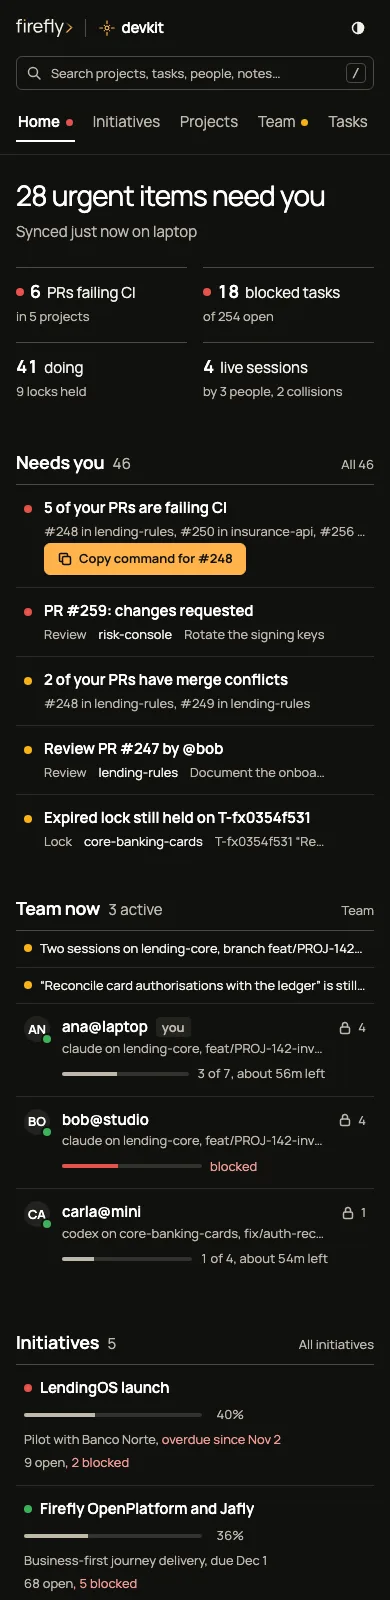
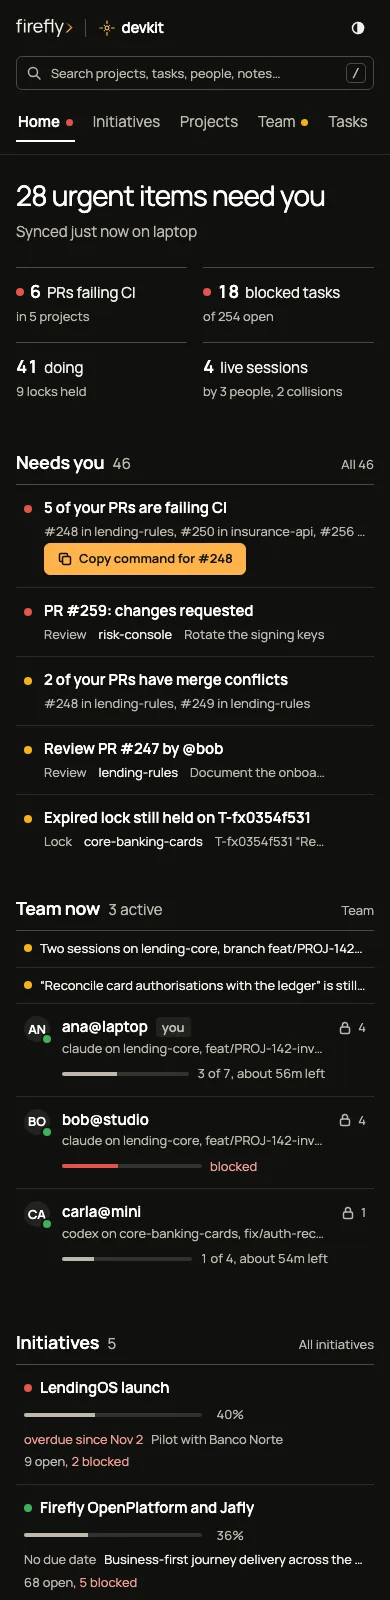
fix(dashboard): long real-world texts fit — initiatives table, home rows, navbar
Fixed table layout with a flexible name column; the next date is the due
date with the milestone as one truncated line (full text on hover); home
initiative rows stay on one line; the navbar fits at 1100 px; long
completed-task titles and roadmap labels truncate; header and cells hide
together. Tested with long milestones, 77-member initiatives without due
dates and empty people at 1100, 1280 and 1440 px.

Changed region(s): [[0.0615, 0.875, 0.7077, 1.0], [0.8, 0.9688, 0.8308, 1.0]]

diff --git a/lib/devkit/dashboard.py b/lib/devkit/dashboard.py
@@ -1135,7 +1135,13 @@ a.fig:hover .fl{text-decoration:underline;text-underline-offset:3px;text-decorat
 .warnline{display:flex;gap:var(--s2);align-items:baseline;font-size:var(--fs-1);color:var(--text);padding:var(--s2) var(--s2);border-bottom:1px solid var(--line-soft);min-width:0}
 .warnline .dot{transform:translateY(-1px)}
 /* initiative rows (Home) */
-.inir{display:grid;grid-template-columns:minmax(0,1.5fr) minmax(120px,1fr) minmax(0,1fr) minmax(0,1fr);gap:var(--s1) var(--s4);align-items:center;padding:var(--s3) var(--s2)}
+.inir{display:grid;grid-template-columns:minmax(0,1.4fr) minmax(140px,.9fr) minmax(0,1.4fr) minmax(110px,.6fr);gap:var(--s1) var(--s5);align-items:center;padding:var(--s3) var(--s2)}
+.inir>*{min-width:0} .inir .nm .rl{min-width:0} .inir .c4{white-space:nowrap;overflow:hidden;text-overflow:ellipsis}
+/* the next date: due date first, the milestone as one truncated line (two lines in tables, one line in Home rows) */
+.nd{display:grid;grid-template-columns:minmax(0,1fr);font-size:var(--fs-1);line-height:1.45;min-width:0}
+.nd .due{color:var(--text)} .nd .due.over{color:var(--bad-text)} .nd .due.none{color:var(--text-2)} .nd .ms{color:var(--text-2)} .nd .due.none+.ms{color:var(--text)}
+.inir .nd{display:flex;align-items:baseline;gap:var(--s2)} .inir .nd .due{flex:none} .inir .nd .ms{flex:0 1 auto}
+.since .sl1>.lnk,.since .sl1>.ell:first-child{flex:0 1 auto;min-width:0} .since .sl1>.sc2{flex:0 0 auto;max-width:45%}
 .inir .nm{display:flex;align-items:center;gap:var(--s2);font-weight:600;color:var(--strong);min-width:0}
 .inir .sub{font-size:var(--fs-1);color:var(--text-2)}
 /* ---------- tables: quiet */
@@ -1154,6 +1160,9 @@ table.pt td{white-space:nowrap}
 table.pt td.c-name{max-width:220px} table.pt .pname,table.pt .powner{overflow:hidden;text-overflow:ellipsis;white-space:nowrap}
 td.c-now{max-width:200px;white-space:normal} td.c-status{max-width:230px;white-space:normal}
 td.c-prog{width:170px} table.pt .prog{min-width:100px}
+table.it{table-layout:fixed} table.it td{overflow:hidden;text-overflow:ellipsis} table.it td.c-name{max-width:none}
+table.it th.c-health{width:28px} table.it th.c-prog{width:150px} table.it th.c-ms{width:190px} table.it th.c-work{width:164px}
+table.it th.c-st{width:140px} table.it th.c-who{width:112px} table.it th.c-act{width:104px} table.it .prog{min-width:0;max-width:none}
 td.c-who{width:100px} td.c-cta{width:120px;text-align:right}
 table.pt .prs{flex-wrap:nowrap}
 .slt{font-size:var(--fs-1);line-height:1.4;color:var(--text)}
@@ -1173,6 +1182,7 @@ table.pt .prs{flex-wrap:nowrap}
 .phead .go{display:flex;flex-wrap:wrap;gap:var(--s2);align-items:center;justify-content:flex-end}
 .pline{font-size:var(--fs-2);color:var(--text-2)}
 .pline .stat{color:var(--text)}
+.pline .msl{display:inline-block;max-width:52ch;overflow:hidden;text-overflow:ellipsis;white-space:nowrap;vertical-align:bottom}
 .lead{margin:0;max-width:70ch;color:var(--text);font-size:var(--fs-2)}
 .lead p{margin:0}
 .pprog{display:flex;align-items:center;gap:var(--s3);max-width:520px;font-size:var(--fs-1);color:var(--text-2)}
@@ -1373,7 +1383,7 @@ table.pt .prs{flex-wrap:nowrap}
 .road-tl.today{color:var(--strong);font-weight:600}
 .road-m{position:absolute;top:50%;width:9px;height:9px;margin:-5px 0 0 -5px;transform:rotate(45deg);background:var(--mark);border-radius:1px;z-index:2}
 .road-m.over{background:var(--bad)} .road-m.done{background:var(--good)}
-.road-t{position:absolute;top:50%;transform:translate(10px,-50%);font-size:var(--fs-1);color:var(--text-2);white-space:nowrap;z-index:2;background:var(--page);padding:0 4px}
+.road-t{position:absolute;top:50%;transform:translate(10px,-50%);font-size:var(--fs-1);color:var(--text-2);white-space:nowrap;overflow:hidden;text-overflow:ellipsis;z-index:2;background:var(--page);padding:0 4px}
 .road-t.r{transform:translate(-10px,-50%)}
 /* ---------- timeline */
 .tl{list-style:none;margin:0;padding:0}
@@ -1447,9 +1457,10 @@ a.rl,a.at,a.itl{color:inherit;text-decoration:none} a.rl:hover,a.at:hover,a.itl:
   main .tw.st:not(.x) table.t th{top:var(--nav-h)} main .tabpanel .tw.st:not(.x) table.t th{top:calc(var(--nav-h) + var(--tabs-h))}}
 /* ---------- responsive */
 @media (max-width:1600px){table.pt:not(.it) .c-act{display:none}}
-@media (max-width:1180px){.board{grid-template-columns:repeat(2,minmax(0,1fr))}.c-size,.c-act{display:none}td.c-who{display:none}
+@media (max-width:1180px){.nav{gap:var(--s4)}.tabs{gap:var(--s3)}.search{flex-basis:170px}#palbtn{display:none}
+  .board{grid-template-columns:repeat(2,minmax(0,1fr))}.c-size,.c-act{display:none}.c-who{display:none}
   .since{grid-template-columns:repeat(2,minmax(0,1fr))}.people{grid-template-columns:minmax(0,1fr)}}
-@media (max-width:1024px){.cols,.cols.even{grid-template-columns:minmax(0,1fr)}.search{flex-basis:200px}.c-last{display:none}
+@media (max-width:1024px){.cols,.cols.even{grid-template-columns:minmax(0,1fr)}.search{flex-basis:150px}.c-last{display:none}
   .inir{grid-template-columns:minmax(0,1fr) minmax(120px,200px)}.inir .c3,.inir .c4{grid-column:1/-1}}
 @media (pointer:coarse){.icopy{width:40px;height:40px}.btn{height:40px}.btn.sm{height:36px}}
 @media (max-width:768px){
@@ -2225,9 +2236,10 @@ function teamNow() {
 function notCloned(x) { return x.members.filter(m => { const p = BYID.get(m.id); return p ? !p.local : !m.local; }).length; }
 function memberCounts(x) { const c = {blocked: 0, risk: 0}; for (const m of x.members) { const p = BYID.get(m.id), st = (p && p.status) || m.status; if (st === "blocked") c.blocked++; if (p && p.health.level === "risk") c.risk++; } return c; }
 function nextDate(x) {
-  const over = x.due && x.status !== "done" && x.due < lkey(new Date());
-  if (!x.due && !x.milestone) return h("span", {class: "t2", text: "No due date"});
-  return h("span", null, x.milestone ? h("span", {text: x.milestone + (x.due ? ", " : "")}) : null, x.due ? h("span", {class: over ? "bad" : "t2", text: over ? "overdue since " + shortDay(x.due) : "due " + shortDay(x.due)}) : null);
+  const over = !!(x.due && x.status !== "done" && x.due < lkey(new Date()));
+  const when = x.due ? (over ? "overdue since " : "due ") + shortDay(x.due) : "No due date";
+  return h("div", {class: "nd", title: [x.milestone ? "Milestone: " + x.milestone : "", x.due ? (over ? "Overdue since " : "Due ") + x.due : ""].filter(Boolean).join(". ") || null},
+    h("span", {class: "due" + (over ? " over" : "") + (x.due ? "" : " none"), text: when}), x.milestone ? h("span", {class: "ms ell", text: x.milestone}) : null);
 }
 function workText(c) { return h("span", null, h("span", {class: "num", text: c.open + " open"}), c.blocked ? h("span", {class: "bad num", text: ", " + c.blocked + " blocked"}) : null); }
 /* Home: one row per initiative (status, progress, next date, open and blocked work) */
@@ -2251,8 +2263,8 @@ function sincePanel() {
   const body = h("div", {class: "since"},
     col("Sessions", s.sessions || [], x => h("li", {title: [x.who, x.agent].filter(Boolean).join(" with ")}, h("div", {class: "sl1"}, h("span", {class: "k num", text: tm(x.ts)}), h("button", {class: "lnk", type: "button", onclick: () => x.project && openScope(x.project), text: scopeName(x.project || "") || "—"})), h("div", {class: "ell", title: plain(stripMarker(x.text))}, logText(x))), "No agent sessions since yesterday."),
     col("Commits", s.commits || [], ([pid, n]) => h("li", {style: "display:flex;gap:8px"}, h("button", {class: "lnk ell", style: "flex:1;text-align:left;font-weight:400", type: "button", onclick: () => openProject(pid), text: scopeName(pid)}), h("span", {class: "num k", text: String(n)})), "No commits since yesterday."),
-    col("Merged PRs", s.merged || [], x => h("li", {class: "ell"}, h("a", {href: x.url, target: "_blank", rel: "noopener noreferrer", text: "#" + x.number}), " ", x.title, h("span", {class: "k", text: " in " + x.repo.split("/").pop()})), "Nothing merged since yesterday."),
-    col("Completed tasks", s.done || [], x => h("li", {class: "ell"}, x.id && ITEMBY.has(x.id) ? h("button", {class: "lnk", style: "font-weight:400", type: "button", onclick: () => openTask(x.id), text: x.text}) : inline(x.text), h("span", {class: "k", text: " in " + scopeName(x.project)})), "No tasks completed since yesterday.", link({view: "tasks", tst: "done"})));
+    col("Merged PRs", s.merged || [], x => h("li", {class: "ell", title: "#" + x.number + " " + x.title}, h("a", {href: x.url, target: "_blank", rel: "noopener noreferrer", text: "#" + x.number}), " ", x.title, h("span", {class: "k", text: " in " + x.repo.split("/").pop()})), "Nothing merged since yesterday."),
+    col("Completed tasks", s.done || [], x => h("li", {class: "sl1", title: x.text + " in " + scopeName(x.project)}, x.id && ITEMBY.has(x.id) ? h("button", {class: "lnk", style: "font-weight:400", type: "button", onclick: () => openTask(x.id), text: x.text}) : h("span", {class: "ell"}, inline(x.text)), h("span", {class: "k ell sc2", text: "in " + scopeName(x.project)})), "No tasks completed since yesterday.", link({view: "tasks", tst: "done"})));
   return panel("Since yesterday", null, h("span", {class: "t2", text: "from " + fmtDay(s.from)}), body);
 }
 function viewHome(main) {
@@ -2290,7 +2302,8 @@ function roadmap(items) {
     rows.push(h("div", {class: "road-row", "data-nav": "", tabindex: "0", role: "link", "aria-label": x.label + ", due " + x.due, onclick: x.open, onkeydown: e => { if (e.key === "Enter") x.open(); }},
       h("span", {class: "road-l ell", title: x.label}, h("span", {class: "dot " + (SDOT[x.status] || "d-info"), "aria-hidden": "true"}), x.label),
       track([h("span", {class: "road-m" + (over ? " over" : x.status === "done" ? " done" : ""), style: "left:" + p.toFixed(2) + "%", title: (over ? "Overdue · " : "Due ") + x.due + (x.milestone ? " · " + x.milestone : "")}),
-        h("span", {class: "road-t" + (right ? " r" : ""), style: (right ? "right:" + (100 - p).toFixed(2) : "left:" + p.toFixed(2)) + "%", text: shortDay(x.due) + (x.milestone ? ": " + x.milestone : "") + (over ? " (overdue)" : "")})])));
+        h("span", {class: "road-t" + (right ? " r" : ""), title: x.label + ", " + shortDay(x.due) + (x.milestone ? ": " + x.milestone : "") + (over ? " (overdue)" : ""),
+          style: (right ? "right:" + (100 - p).toFixed(2) : "left:" + p.toFixed(2)) + "%;max-width:calc(" + (right ? p : 100 - p).toFixed(2) + "% - 14px)", text: shortDay(x.due) + (x.milestone ? ": " + x.milestone : "") + (over ? " (overdue)" : "")})])));
   }
   return h("div", {class: "road", role: "list", "aria-label": "Milestones and due dates"}, rows);
 }
@@ -2341,7 +2354,7 @@ function viewInitiative(main) {
       h("div", {class: "go"}, x.note && FILEMAP.has(x.note) ? h("a", {class: "btn ghost", href: link({view: "explorer", f: x.note, id: ""})}, "README") : null,
         cmdMenu("Commands", [["Show it in the terminal", "dev initiative show " + x.id], ["Add a task", "dev task -i " + x.id + ' add "…" --now'], ["Add a member project", "dev initiative add " + x.id + " <owner/repo>"]]))),
     h("div", {class: "pline"}, meta(statusBadge(x.status), x.priority === "high" ? "High priority" : x.priority === "low" ? "Low priority" : null,
-      x.milestone ? "Milestone: " + x.milestone : null, x.due ? h("span", {class: over ? "bad" : null, text: over ? "overdue since " + shortDay(x.due) : "due " + shortDay(x.due)}) : null,
+      x.milestone ? h("span", {class: "msl", title: "Milestone: " + x.milestone, text: "Milestone: " + x.milestone}) : null, x.due ? h("span", {class: over ? "bad" : null, text: over ? "overdue since " + shortDay(x.due) : "due " + shortDay(x.due)}) : null,
       x.owner ? "owner " + x.owner : null, x.last ? "active " + rel(x.last) : null)),
     state ? h("p", {class: "lead", title: longState ? state : null}, inline(longState ? state.slice(0, 240).replace(/\s+\S*$/, "") + "…" : state)) : null,
     h("div", {class: "pprog"}, progressBar(x, true), h("span", {text: pr.why}))));
@@ -2632,7 +2645,7 @@ function viewProject(main) {
     h("div", {class: "pt1"}, h("div", null, h("h1", null, healthDot(p), p.name || p.id)),
       h("div", {class: "go"}, p.local ? cmdBtn("dev claude " + p.id, true, "Copy dev claude") : cmdBtn("dev clone " + p.id, true, "Copy dev clone"),
         cmdMenu("More commands", p.local ? [["Start Codex", "dev codex " + p.id], ["Go to the checkout", "dcd " + p.id], ["Write the handoff", "dev handoff " + p.id]] : [["Write the handoff", "dev handoff " + p.id]]))),
-    h("div", {class: "pline"}, meta(statusBadge(p.status, true), p.priority === "high" ? "High priority" : null, ns.milestone ? "Milestone: " + ns.milestone : null, ns.due ? dueBadge(ns.due, p.status === "done") : null,
+    h("div", {class: "pline"}, meta(statusBadge(p.status, true), p.priority === "high" ? "High priority" : null, ns.milestone ? h("span", {class: "msl", title: "Milestone: " + ns.milestone, text: "Milestone: " + ns.milestone}) : null, ns.due ? dueBadge(ns.due, p.status === "done") : null,
       p.inits.length ? h("span", null, "in ", p.inits.map((id, i) => [i ? ", " : "", h("a", {href: link({view: "initiatives", id, tab: ""}), text: (BYINIT.get(id) || {}).title || id})])) : null,
       m.branch ? h("span", {class: "meta", title: "Current branch"}, icon("branch"), m.branch) : null, lastSeen ? "active " + rel(lastSeen) : null, p.local ? null : "not cloned on this Mac")),
     lv !== "ok" ? h("div", {class: "hreason"}, h("span", {class: "dot d-" + lv, "aria-hidden": "true"}), h("span", null, h("span", {class: lv === "risk" ? "bad" : "warn-t", text: hl + ": "}), p.health.reasons.join(", "))) : null,

diff --git a/tests/test_dashboard.py b/tests/test_dashboard.py
@@ -23,6 +23,8 @@ FUTURE = time.strftime("%Y-%m-%d", time.localtime(NOW + 20 * 86400))
 ISO = time.strftime("%Y-%m-%dT%H:%M:%SZ", time.gmtime(NOW - 3600))
 MARK = "[Firefly> DevKit]"           # the status-line marker agents write
 FAKE_PAT = "ghp_" + "0123456789abcdefABCDEF0123456789abcd"   # built at runtime: no token-shaped literal in the file
+LONG_MILESTONE = "Business-first journey delivery across the experience, domain and core layers (plan of 2026-10-31, revised after review)"
+LONG_GOAL = "Deliver working banking and insurance operations through Experience, Domain and Core services, with verified artefacts and consumer adoption."
 LEGACY = "DevKit ·"                  # the legacy marker, still accepted
 SAVED = "widget · main ❯ Ship export ❯ export endpoint done ❯ ✓ 31 tests green ❯ ▸ 3/7 ❯ next → contract test"   # what devkit saves
 ME = f"me@{socket.gethostname().split('.')[0].lower()}"
@@ -244,6 +246,20 @@ class RenderTests(unittest.TestCase):
         self.assertIn("--elev-border:0 solid transparent", dashboard.LIGHT)
         self.assertIn("--shadow:none", dashboard.DARK)
 
+    def test_long_texts_do_not_widen_the_page(self):
+        """Real milestones and goals are long: the initiatives table has a fixed layout (the name takes the flexible
+        width), the next date is the due date with the milestone as one truncated line and the full text on hover."""
+        css, js = dashboard.CSS, dashboard.JS
+        self.assertIn("table.it{table-layout:fixed}", css)
+        for col in ("c-health", "c-prog", "c-ms", "c-work", "c-st", "c-who", "c-act"):
+            self.assertRegex(css, r"table\.it th\." + col + r"\{width:\d+px\}", col)    # every column but the name is fixed
+        self.assertNotRegex(css, r"table\.it th\.c-name\{width")
+        self.assertIn('h("span", {class: "ms ell", text: x.milestone})', js)             # one truncated line
+        self.assertIn('"Milestone: " + x.milestone', js)                                 # the full text on hover
+        self.assertIn('"No due date"', js)
+        self.assertIn(".inir .nd{display:flex", css)                                     # Home: one line per initiative
+        self.assertIn(".c-who{display:none}", css)                                       # a hidden column hides its header too
+
     def test_rows_are_links(self):
         """Clickable rows hold a real link (keyboard, screen readers, j/k) instead of being focusable themselves."""
         js = dashboard.JS
@@ -305,12 +321,15 @@ class RenderTests(unittest.TestCase):
                 pid = members[n % 77] if n < 330 else f"acme/p{n % 13}"
                 item(root, pid, f"T-s{n:03d}", f"Task {n}", ["todo", "doing", "blocked", "done"][n % 4], ["now", "next", "later"][n % 3],
                      links=["initiative:jafly"] if n % 5 == 0 and n < 330 else [])
-            ini = {"id": "jafly", "title": "Jafly", "projects": members, "members": [{"id": m, "status": "active", "local": False} for m in members]}
+            ini = {"id": "jafly", "title": "Jafly", "projects": members, "members": [{"id": m, "status": "active", "local": False} for m in members],
+                   "milestone": LONG_MILESTONE, "goal": LONG_GOAL, "due": ""}           # no due date, long texts, nobody on it
             reg = {"projects": projects, "initiatives": [ini] + [{"id": f"i{k}", "title": f"I{k}", "projects": []} for k in range(4)], "github_user": "me"}
             html = dashboard.render(reg, handoff=root, now=NOW)
             d = embedded(html)
         self.assertEqual((len(d["projects"]), len(d["initiatives"]), len(d["items"])), (90, 5, 400))
         self.assertEqual(len(d["initiatives"][0]["linked_items"]), 66)
+        self.assertEqual((d["initiatives"][0]["milestone"], d["initiatives"][0]["goal"], d["initiatives"][0]["due"]), (LONG_MILESTONE, LONG_GOAL, ""))
+        self.assertEqual(d["people"], [])
         self.assertEqual(d["kpis"]["not_cloned"], 77)
         self.assertEqual(d["kpis"]["prs_failing"], 13)
         self.assertLess(len(html), 3_000_000)

diff --git a/docs/dashboard.md b/docs/dashboard.md
@@ -21,7 +21,7 @@ dev dashboard --path     # print the file path
 | View | Keys | The job it does |
 | --- | --- | --- |
 | **Home** | `g o` | _Is anything wrong, and where do things stand?_ The title answers it, for example _28 urgent items need you_ or _Nothing needs you_. **Four figures** follow, each with its context and a link to the filtered list (PRs failing CI, blocked tasks, doing and the locks held, live sessions with people and collisions). **Needs you** lists the top five problems; problems of the same kind are grouped into one row (for example _5 of your PRs are failing CI_) that opens the filtered list. The first row has the page's one amber button, which copies its command; other rows have a copy icon. **Team now** has one row per person with their live session, run progress and ETA, after a one-line warning for each collision. Below sit one row per **initiative** (status, progress, next date, open and blocked tasks) and **Since yesterday** (sessions, commits, merged PRs, completed tasks). |
-| **Initiatives** | `g i` | _How is each programme going?_ One table, filtered by status and sorted by priority, due date, progress, or activity: status, name and goal, progress, the next milestone and due date (overdue in red), open and blocked tasks, member projects (and how many are blocked), people, and last activity. A milestones-and-due-dates roadmap follows, then a link to the projects outside any initiative. Click an initiative to open its page. |
+| **Initiatives** | `g i` | _How is each programme going?_ One table, filtered by status and sorted by priority, due date, progress, or activity: status, name and goal, progress, the due date (overdue in red) with the milestone as one line under it, open and blocked tasks, member projects (and how many are blocked), people, and last activity. Long names, goals, and milestones are truncated, with the full text on hover, so the table always fits the page. A milestones-and-due-dates roadmap follows, then a link to the projects outside any initiative. Click an initiative to open its page. |
 | **Projects** | `g p` | A dense table (cards optional) with the health dot, status and priority, progress, the task in progress and who holds it, the latest agent status, PRs with a CI dot each, 7-day activity (on screens wider than 1600 px), last activity and who is on it. It is sorted by _needs attention_, can be grouped by initiative, owner, status, or priority, and filtered by the facet row. Click a project to open its page. |
 | **Team** | `g m` | _Who is doing what right now?_ One column per person (`user@host`) from the presence files in the handoff repo. Each live session appears once: project, branch, agent, and how long it has run; the run's goal with its progress and ETA (a blocked run says why, in red); then **Latest**, **Check**, and **Next**, taken from the run and, when the run does not say, from the saved status block. The tasks they hold follow, with the time left on each lock; recent sessions are behind a disclosure. **Collisions** are listed first: two sessions on the same project and branch, and expired locks that are still held, each with a copy icon for its command. |
 | **Tasks** | `g t` | Every work item across projects and initiatives, as a board (Now · Next · Later · Closed) or grouped by scope. Filter by status, scope, and who claimed it (anyone, or only you). Every card shows who holds the lock and opens the task drawer. |
